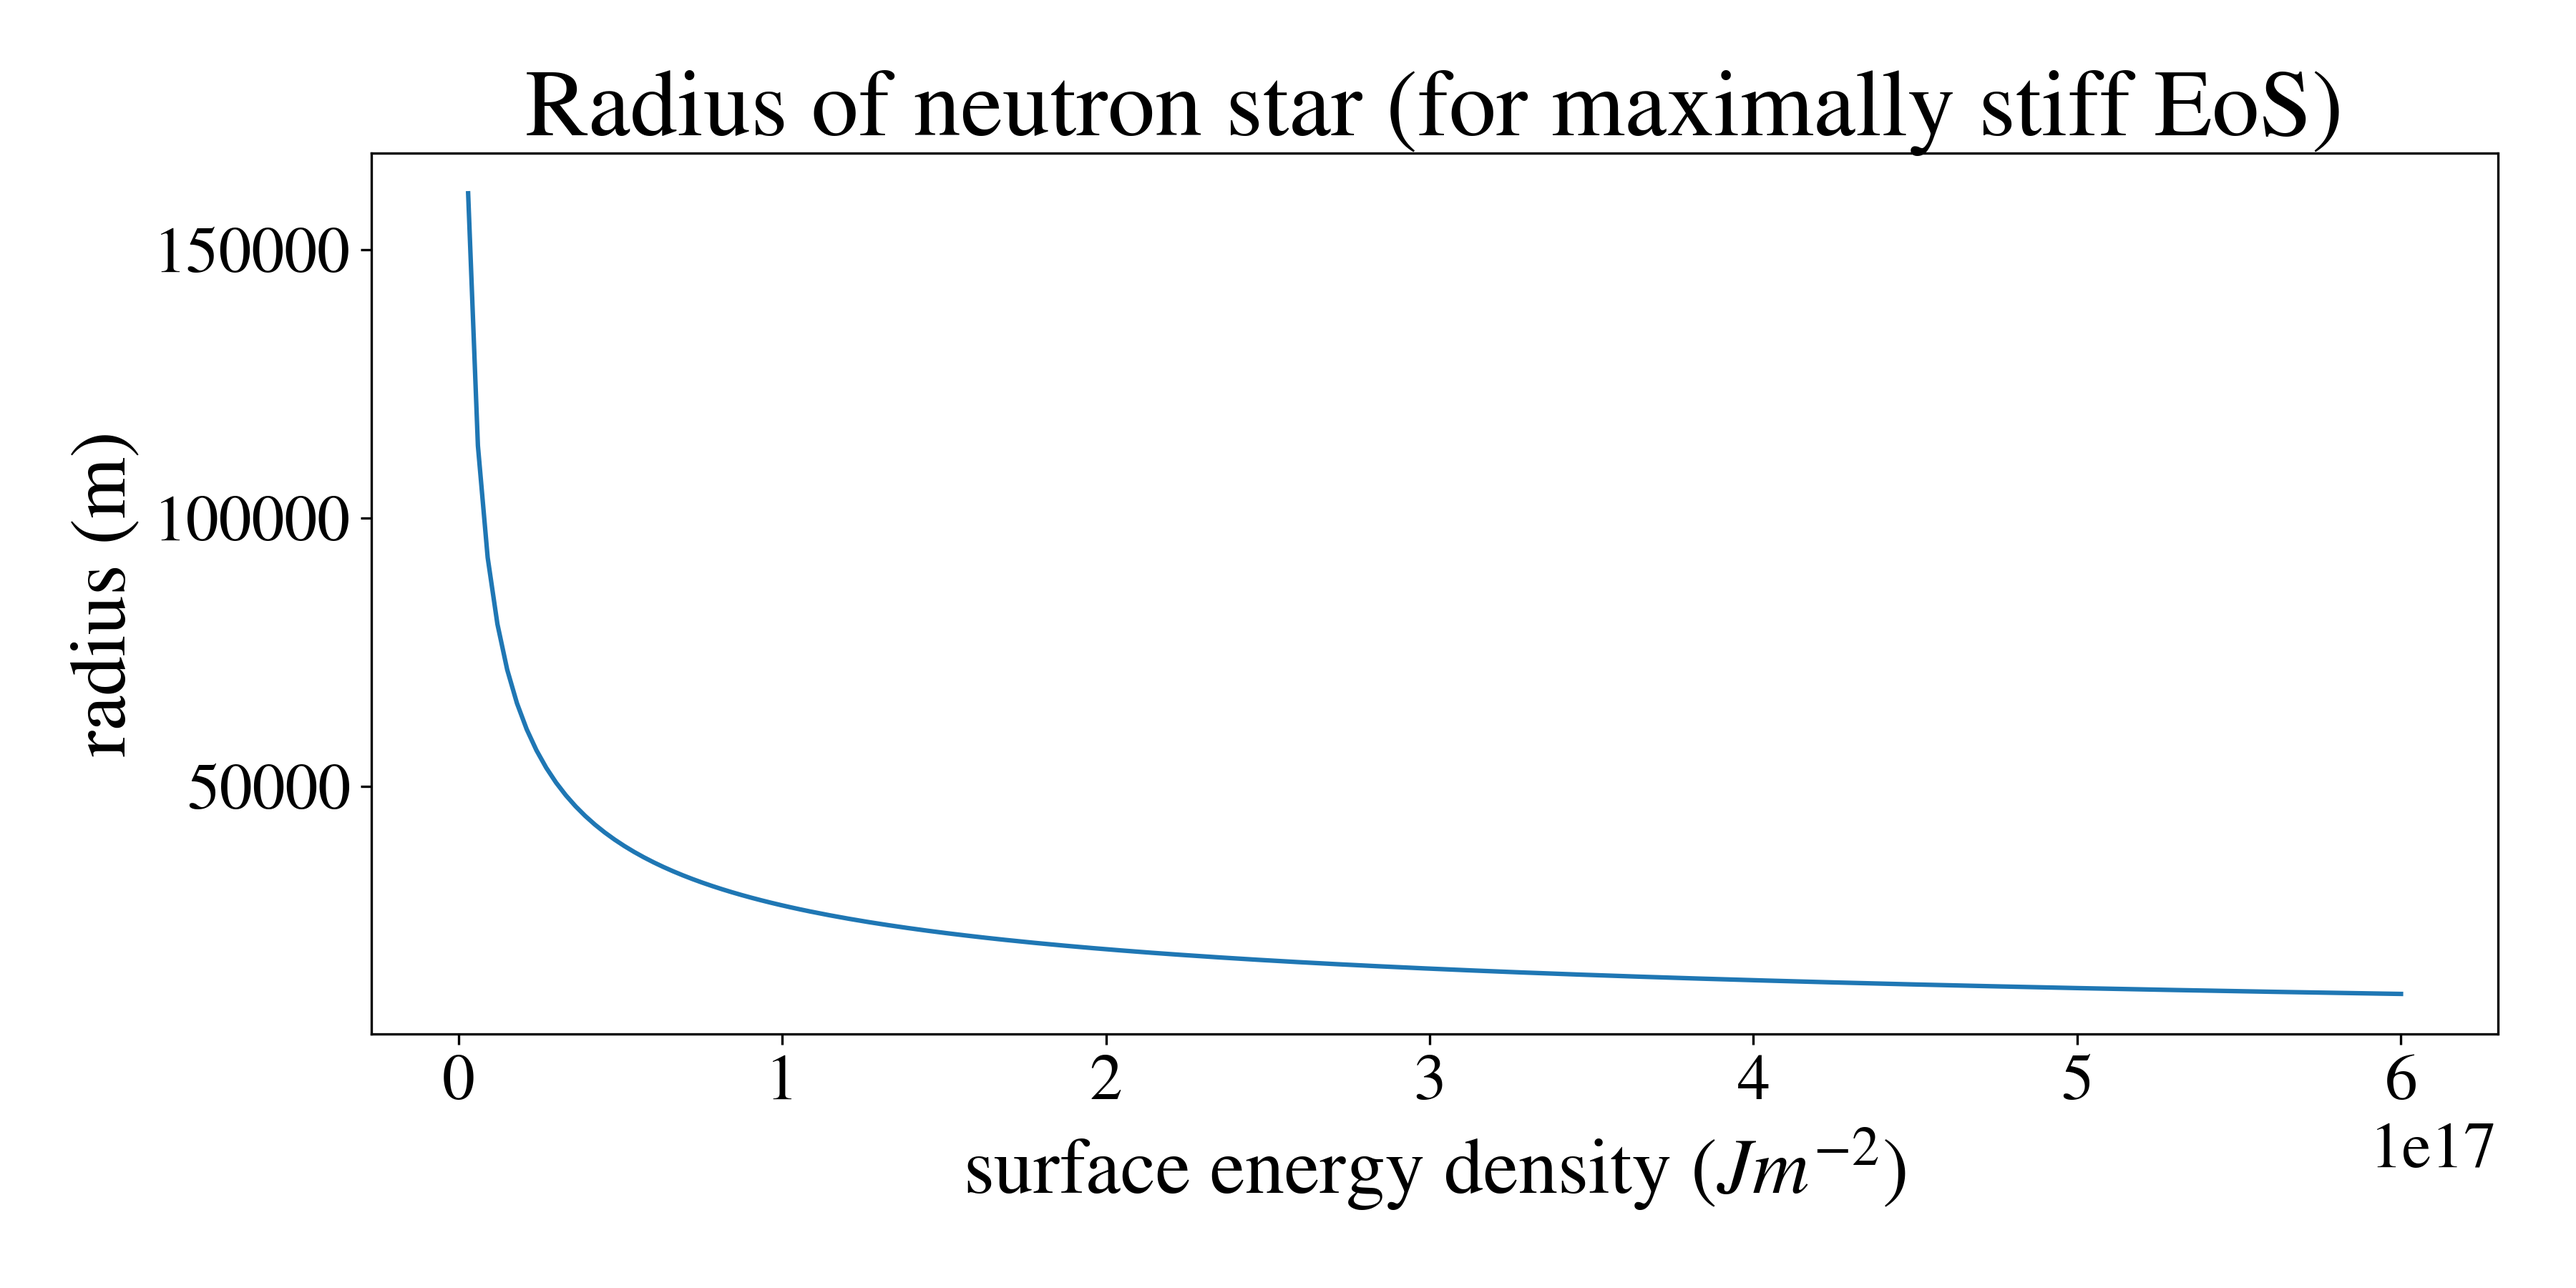
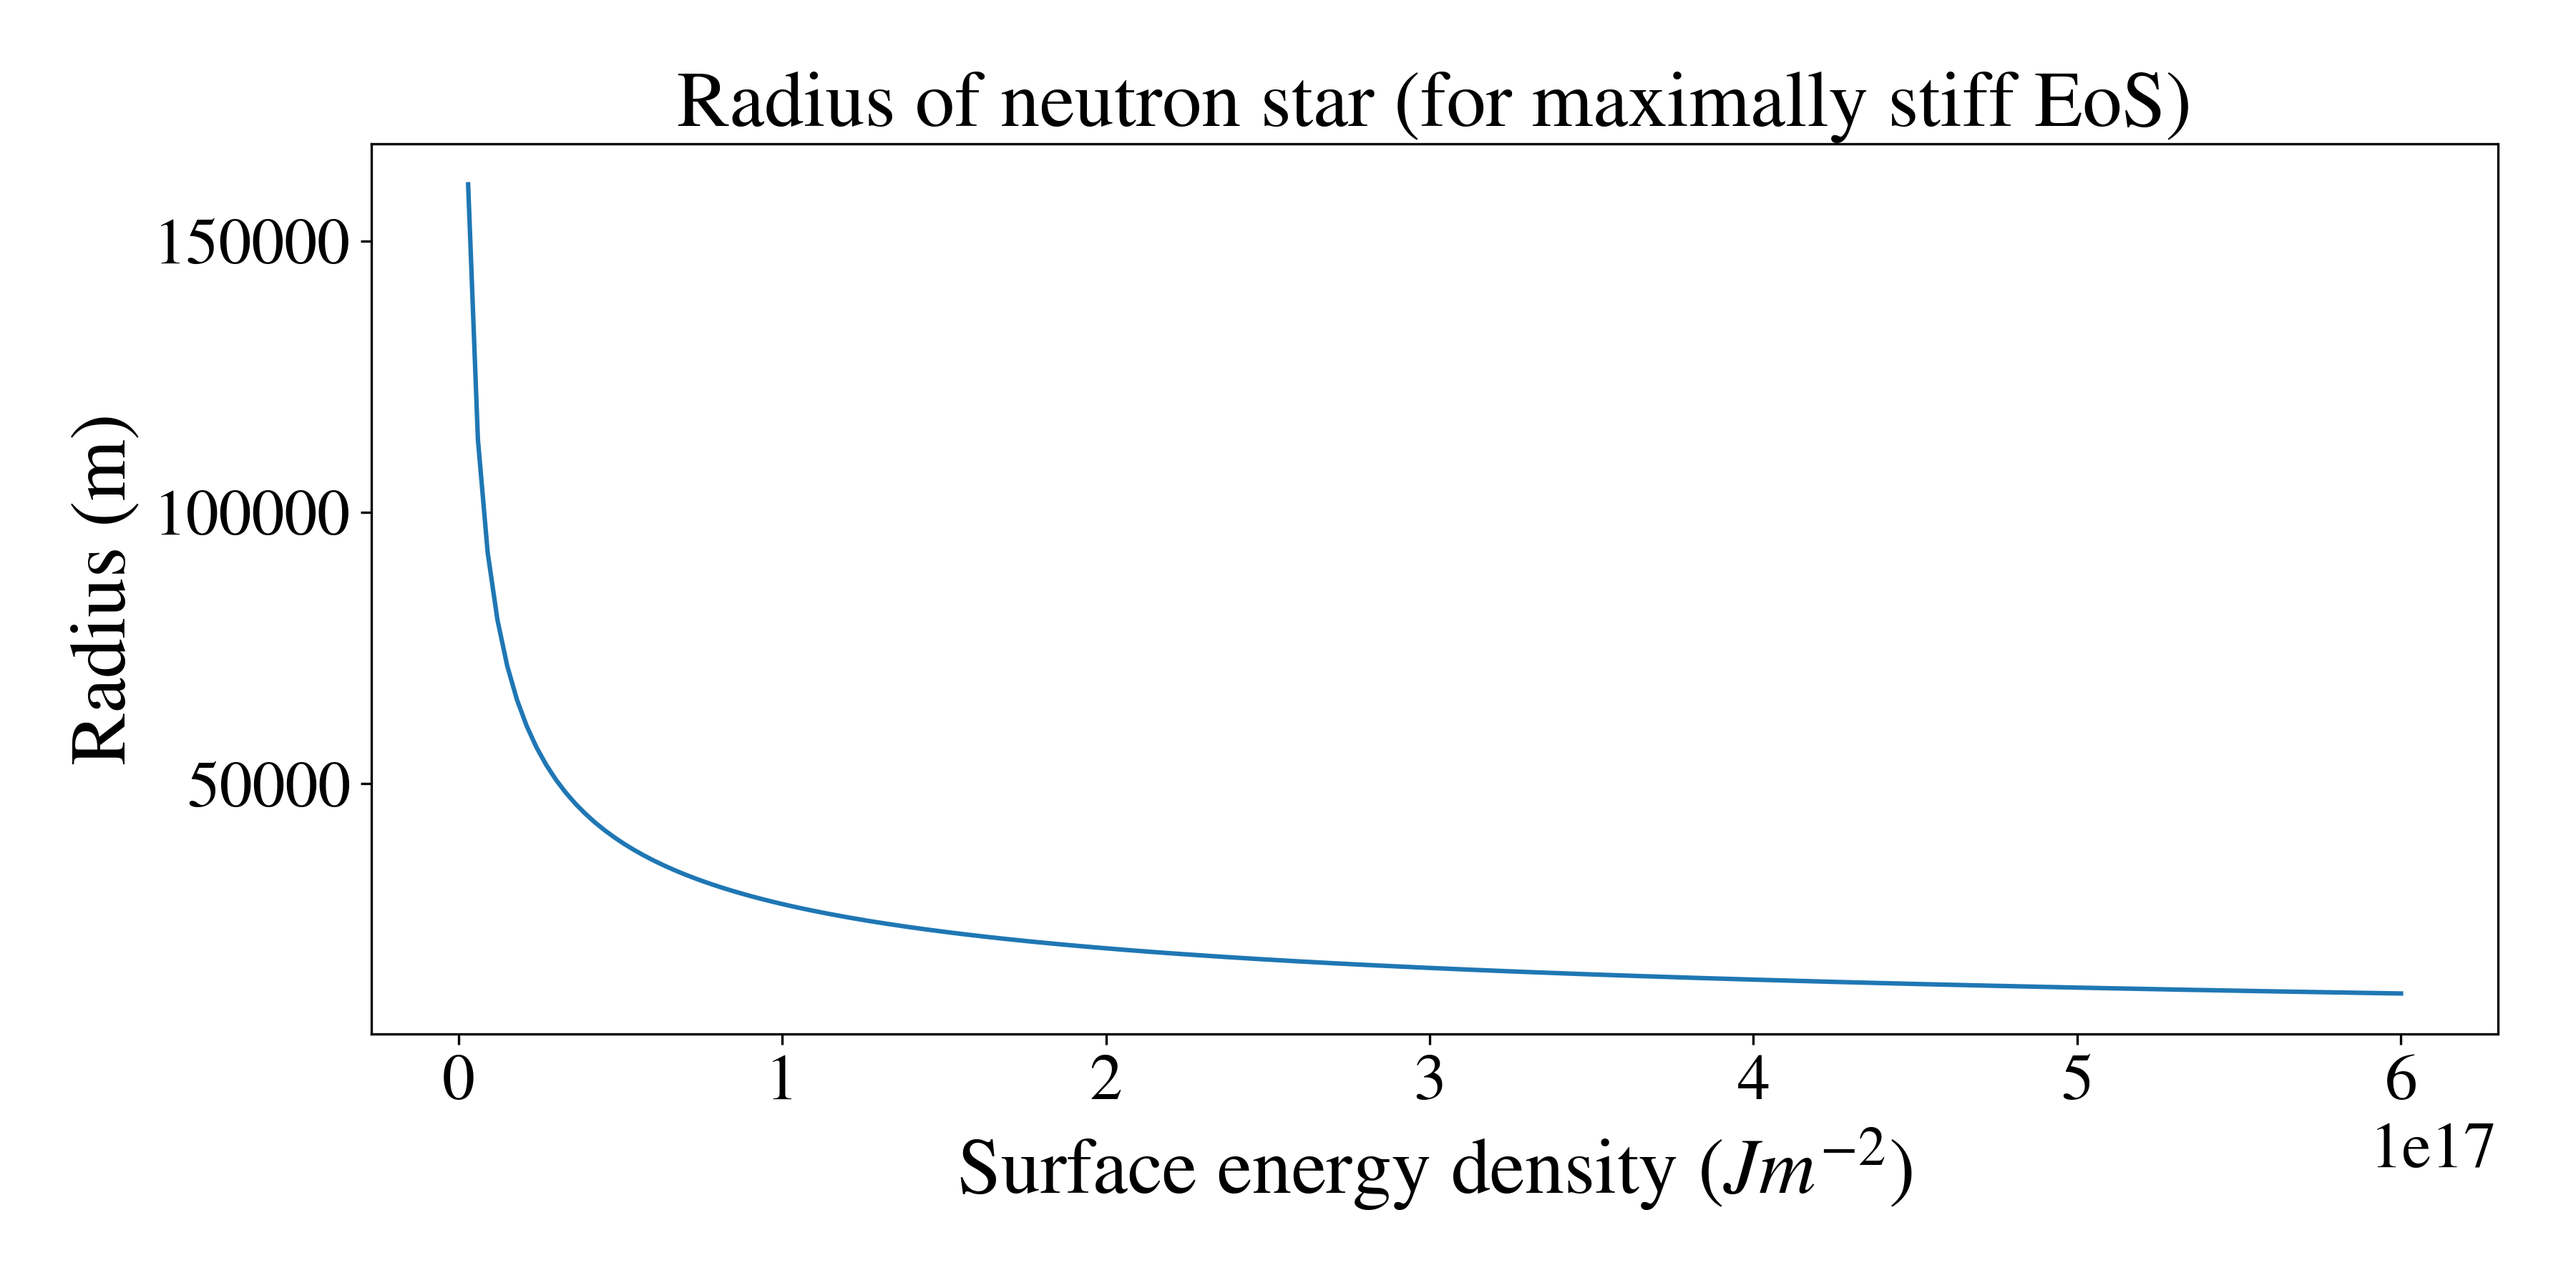
close

diff --git a/tov_equations.py b/tov_equations.py
@@ -22,7 +22,7 @@ matplotlib.pyplot.title(r'Neutron Stars Properties')
 params = {'legend.fontsize':'small',
           'figure.figsize': (12, 6),
           'axes.labelsize': 'large',
-          'axes.titlesize': 'x-large',
+          'axes.titlesize': 'large',
           'xtick.labelsize':'medium',
           'ytick.labelsize':'medium'}
 pylab.rcParams.update(params)
@@ -157,10 +157,10 @@ def poly_main():
     plt.figure()
     plt.plot(radii,pressure, label=r'Relativistic (Polytropic) ($\gamma$='+str(gamma)+',K='+str(K)+')')
     plt.plot(radii,pressure_newton, label=r'Newton (Polytropic) ($\gamma$='+str(gamma)+',K='+str(K)+')')
-    plt.xlabel('radius (cGM units)'),plt.ylabel('pressure (cGM units)'), plt.title('Pressure of neutron star')
+    plt.xlabel('Radius (cGM units)'),plt.ylabel('Pressure (cGM units)'), plt.title('Pressure of neutron star')
     plt.legend()
     plt.tight_layout()
-    #plt.savefig('Pressure_Radius_1.png', format='png', dpi=300)
+#    plt.savefig('Pressure_Radius_11.png', format='png', dpi=300)
     
     
     #plt.subplot(142)
@@ -168,27 +168,27 @@ def poly_main():
     plt.plot(radii,mass, label=r'Relativistic (Polytropic) ($\gamma$='+str(gamma)+',K='+str(K)+')')
     plt.plot(radii,massBaryon, label=r'Baryonic (Polytropic) ($\gamma$='+str(gamma)+',K='+str(K)+')')
     plt.plot(radii,mass_newton, label=r'Newton (Polytropic) ($\gamma$='+str(gamma)+',K='+str(K)+')')
-    plt.xlabel('radius (cGM units)'), plt.ylabel('mass (cGM units)'), plt.title('Mass of neutron star')
+    plt.xlabel('Radius (cGM units)'), plt.ylabel('Mass (cGM units)'), plt.title('Mass of neutron star')
     plt.legend()
     plt.tight_layout()
-    #plt.savefig('Mass_Radius_1.png', format='png', dpi=300)
+#    plt.savefig('Mass_Radius_11.png', format='png', dpi=300)
     
     
     #plt.subplot(143)
     plt.figure()
     plt.plot(radii[:surfaceindex],potential)
-    plt.xlabel('radius (cGM units)'), plt.ylabel('potential (cGM units)')
+    plt.xlabel('Radius (cGM units)'), plt.ylabel('Potential (cGM units)')
     plt.title('Gravitational potential of neutron star ($\gamma$='+str(gamma)+',K='+str(K)+')')
     plt.tight_layout()
     
     #plt.subplot(144)
     plt.figure()
     plt.plot(rho_c_vals,starMasses)
-    plt.xlabel(r'$\rho_c$ (cGM units)'), plt.ylabel('star mass (cGM units)')
+    plt.xlabel(r'$\rho_c$ (cGM units)'), plt.ylabel('Star mass (cGM units)')
     plt.title(r'Star masses for different densities ($\gamma$='+str(gamma)+',K='+str(K)+')')
     plt.tight_layout()
     plt.show()
-    #plt.savefig('StarMass_Density_1.png', format='png', dpi=300)
+#    plt.savefig('StarMass_Density_11.png', format='png', dpi=300)
     
 
       

diff --git a/max_compact_equations.py b/max_compact_equations.py
@@ -90,21 +90,21 @@ def compact_main():
     #plt.subplot(121)
     plt.figure()
     plt.plot(e_0_vals, maxmass_vals)
-    plt.xlabel('surface energy density ($Jm^{-2}$)'), plt.ylabel('mass (kg)')
+    plt.xlabel('Surface energy density ($Jm^{-2}$)'), plt.ylabel('Mass (kg)')
     plt.title('Mass (at r=radius) of neutron star (for maximally stiff EoS)')
     plt.tight_layout()
     plt.show()
-    #plt.savefig('StarMass_SEDensity_MS_1.png', format='png', dpi=300)
+#    plt.savefig('StarMass_SEDensity_MS_11.png', format='png', dpi=300)
     
     
     #plt.subplot(122)
     plt.figure()
     plt.plot(e_0_vals, radius_vals)
-    plt.xlabel('surface energy density ($Jm^{-2}$)'), plt.ylabel('radius (m)')
+    plt.xlabel('Surface energy density ($Jm^{-2}$)'), plt.ylabel('Radius (m)')
     plt.title('Radius of neutron star (for maximally stiff EoS)')
     plt.tight_layout()
     plt.show()
-    #plt.savefig('Radius_SEDensity_MS_1.png', format='png', dpi=300)
+#    plt.savefig('Radius_SEDensity_MS_11.png', format='png', dpi=300)
 
 
 compact_main()
